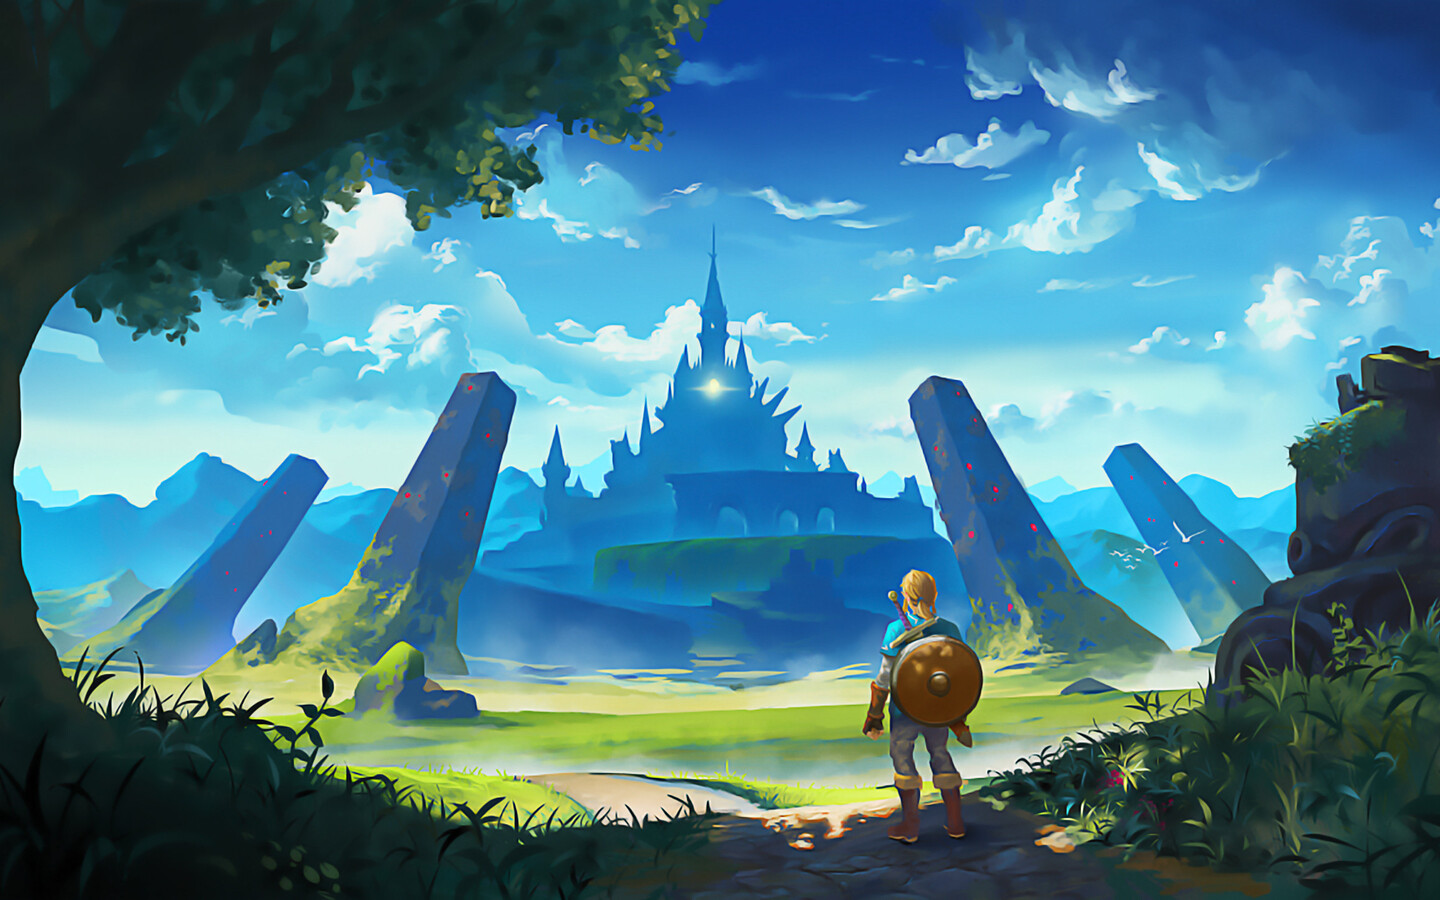
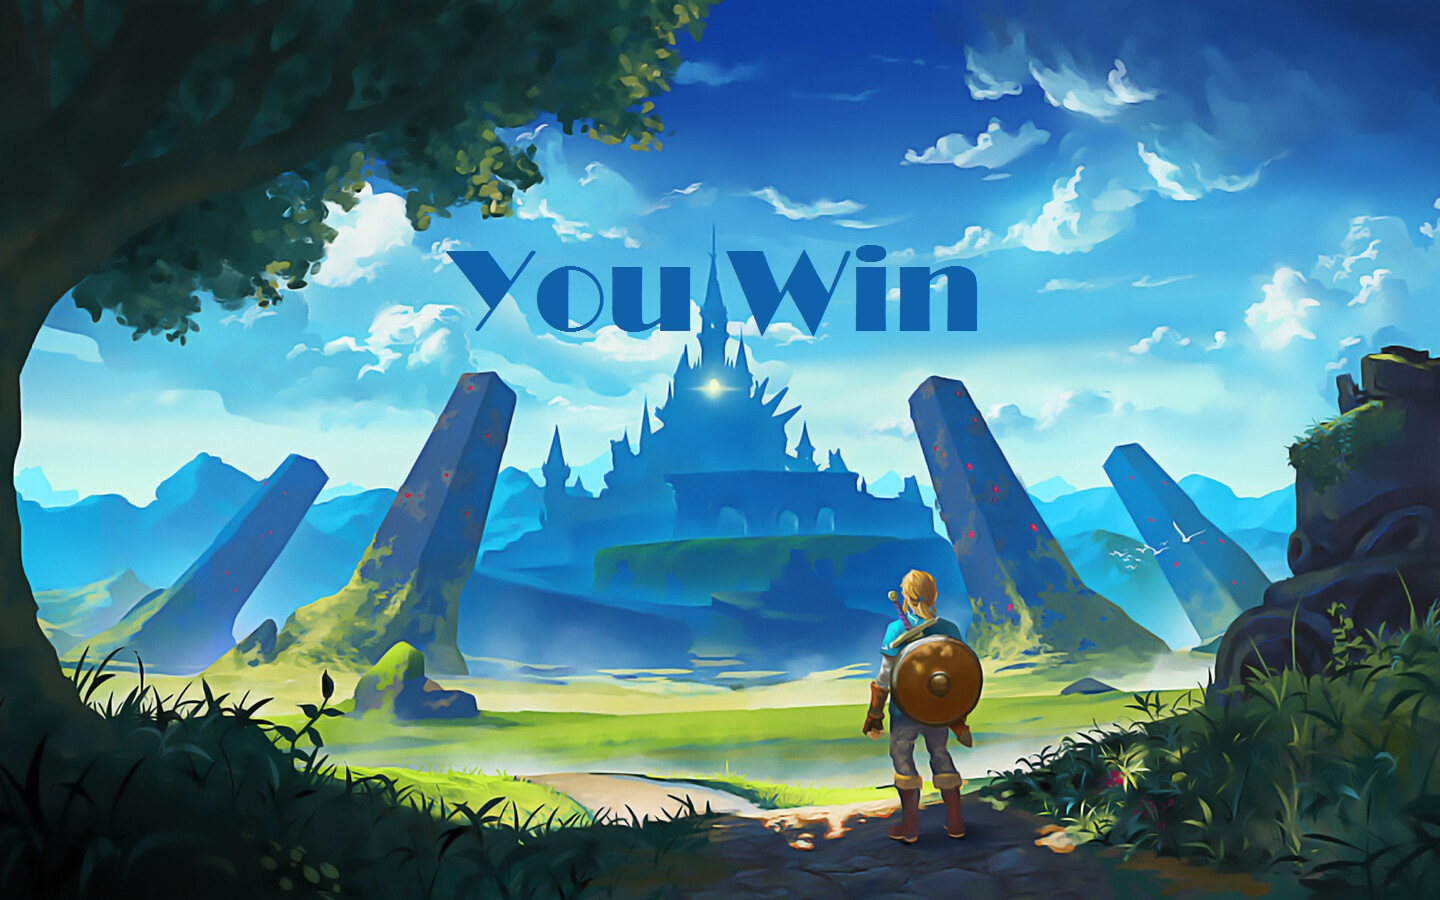
Попытка сделать финальное меню №2

diff --git a/main.py b/main.py
@@ -46,6 +46,10 @@ tile_images = {
                                             (400, 120)),
     'Start_click': pygame.transform.scale(load_image('Start_click.png', 'Start_menu'),
                                           (400, 120)),
+    'go_menu_onclick': pygame.transform.scale(load_image('go_menu_onclick.png', 'end'),
+                                         (400, 120)),
+    'go_menu_click': pygame.transform.scale(load_image('go_menu_click.png', 'end'),
+                                         (400, 120)),
     'quit_onclick': pygame.transform.scale(load_image('quit_onclick.png', 'Start_menu'),
                                            (400, 120)),
     'quit_click': pygame.transform.scale(load_image('quit_click.png', 'Start_menu'),
@@ -166,17 +170,6 @@ class Player(pygame.sprite.Sprite):
                 self.died_sing.play()
                 pygame.mixer.music.pause()
                 time.sleep(1)
-                for i in opponents:
-                    i.kill()
-                for sprite in all_sprites:
-                    sprite.kill()
-                for sprite in tiles_group:
-                    sprite.kill()
-                for sprite in animation_group:
-                    sprite.kill()
-                for sprite in player_group:
-                    sprite.kill()
-                cord_spawn.clear()
                 game(level)
 
         self.mask = pygame.mask.from_surface(self.image)
@@ -704,10 +697,13 @@ def start_game(screen):
         pygame.display.flip()
         clock.tick(FPS)
 
+
 def game_final(screen):
     fon = pygame.transform.scale(pygame.image.load('end\/Win.jpg'), (WIDTH, HEIGHT))
     screen.blit(fon, (0, 0))
     clock = pygame.time.Clock()
+    start_btn = Button(tile_images['go_menu_click'], tile_images['go_menu_onclick'])
+    quit_btn = Button(tile_images['quit_click'], tile_images['quit_onclick'])
     run = True
     pygame.mouse.set_visible(False)
     image_mouse = load_image("mouse.png", "Start_menu")
@@ -719,8 +715,12 @@ def game_final(screen):
             elif event.type == pygame.MOUSEMOTION:
                 cor_mouse = event.pos
         screen.blit(fon, (0, 0))
+        rez = start_btn.draw("В главное меню", 30, 410, screen)
+        quit_btn.draw('Выйти', 30, 520, screen, terminate)
         if pygame.mouse.get_focused():
             screen.blit(image_mouse, cor_mouse)
+        if rez:
+            game(level)
         pygame.display.flip()
         clock.tick(FPS)
 
@@ -738,6 +738,17 @@ def life_point(screen, hit_point):
 
 
 def game(level):
+    for i in opponents:
+        i.kill()
+    for sprite in all_sprites:
+        sprite.kill()
+    for sprite in tiles_group:
+        sprite.kill()
+    for sprite in animation_group:
+        sprite.kill()
+    for sprite in player_group:
+        sprite.kill()
+    cord_spawn.clear()
     pygame.init()
     screen = pygame.display.set_mode((WIDTH, HEIGHT))
     pygame.display.set_caption("DEFENDER OF THE FOREST")
@@ -846,7 +857,7 @@ def game(level):
             num_ran = random.randint(0, 2)
             while cord_spawn[num_ran] is None:
                 num_ran = random.randint(0, len(cord_spawn) - 1)
-            Opponents(cord_spawn[num_ran])
+            #Opponents(cord_spawn[num_ran])
         for sprite in opponents:
             sprite.update(player)
 
